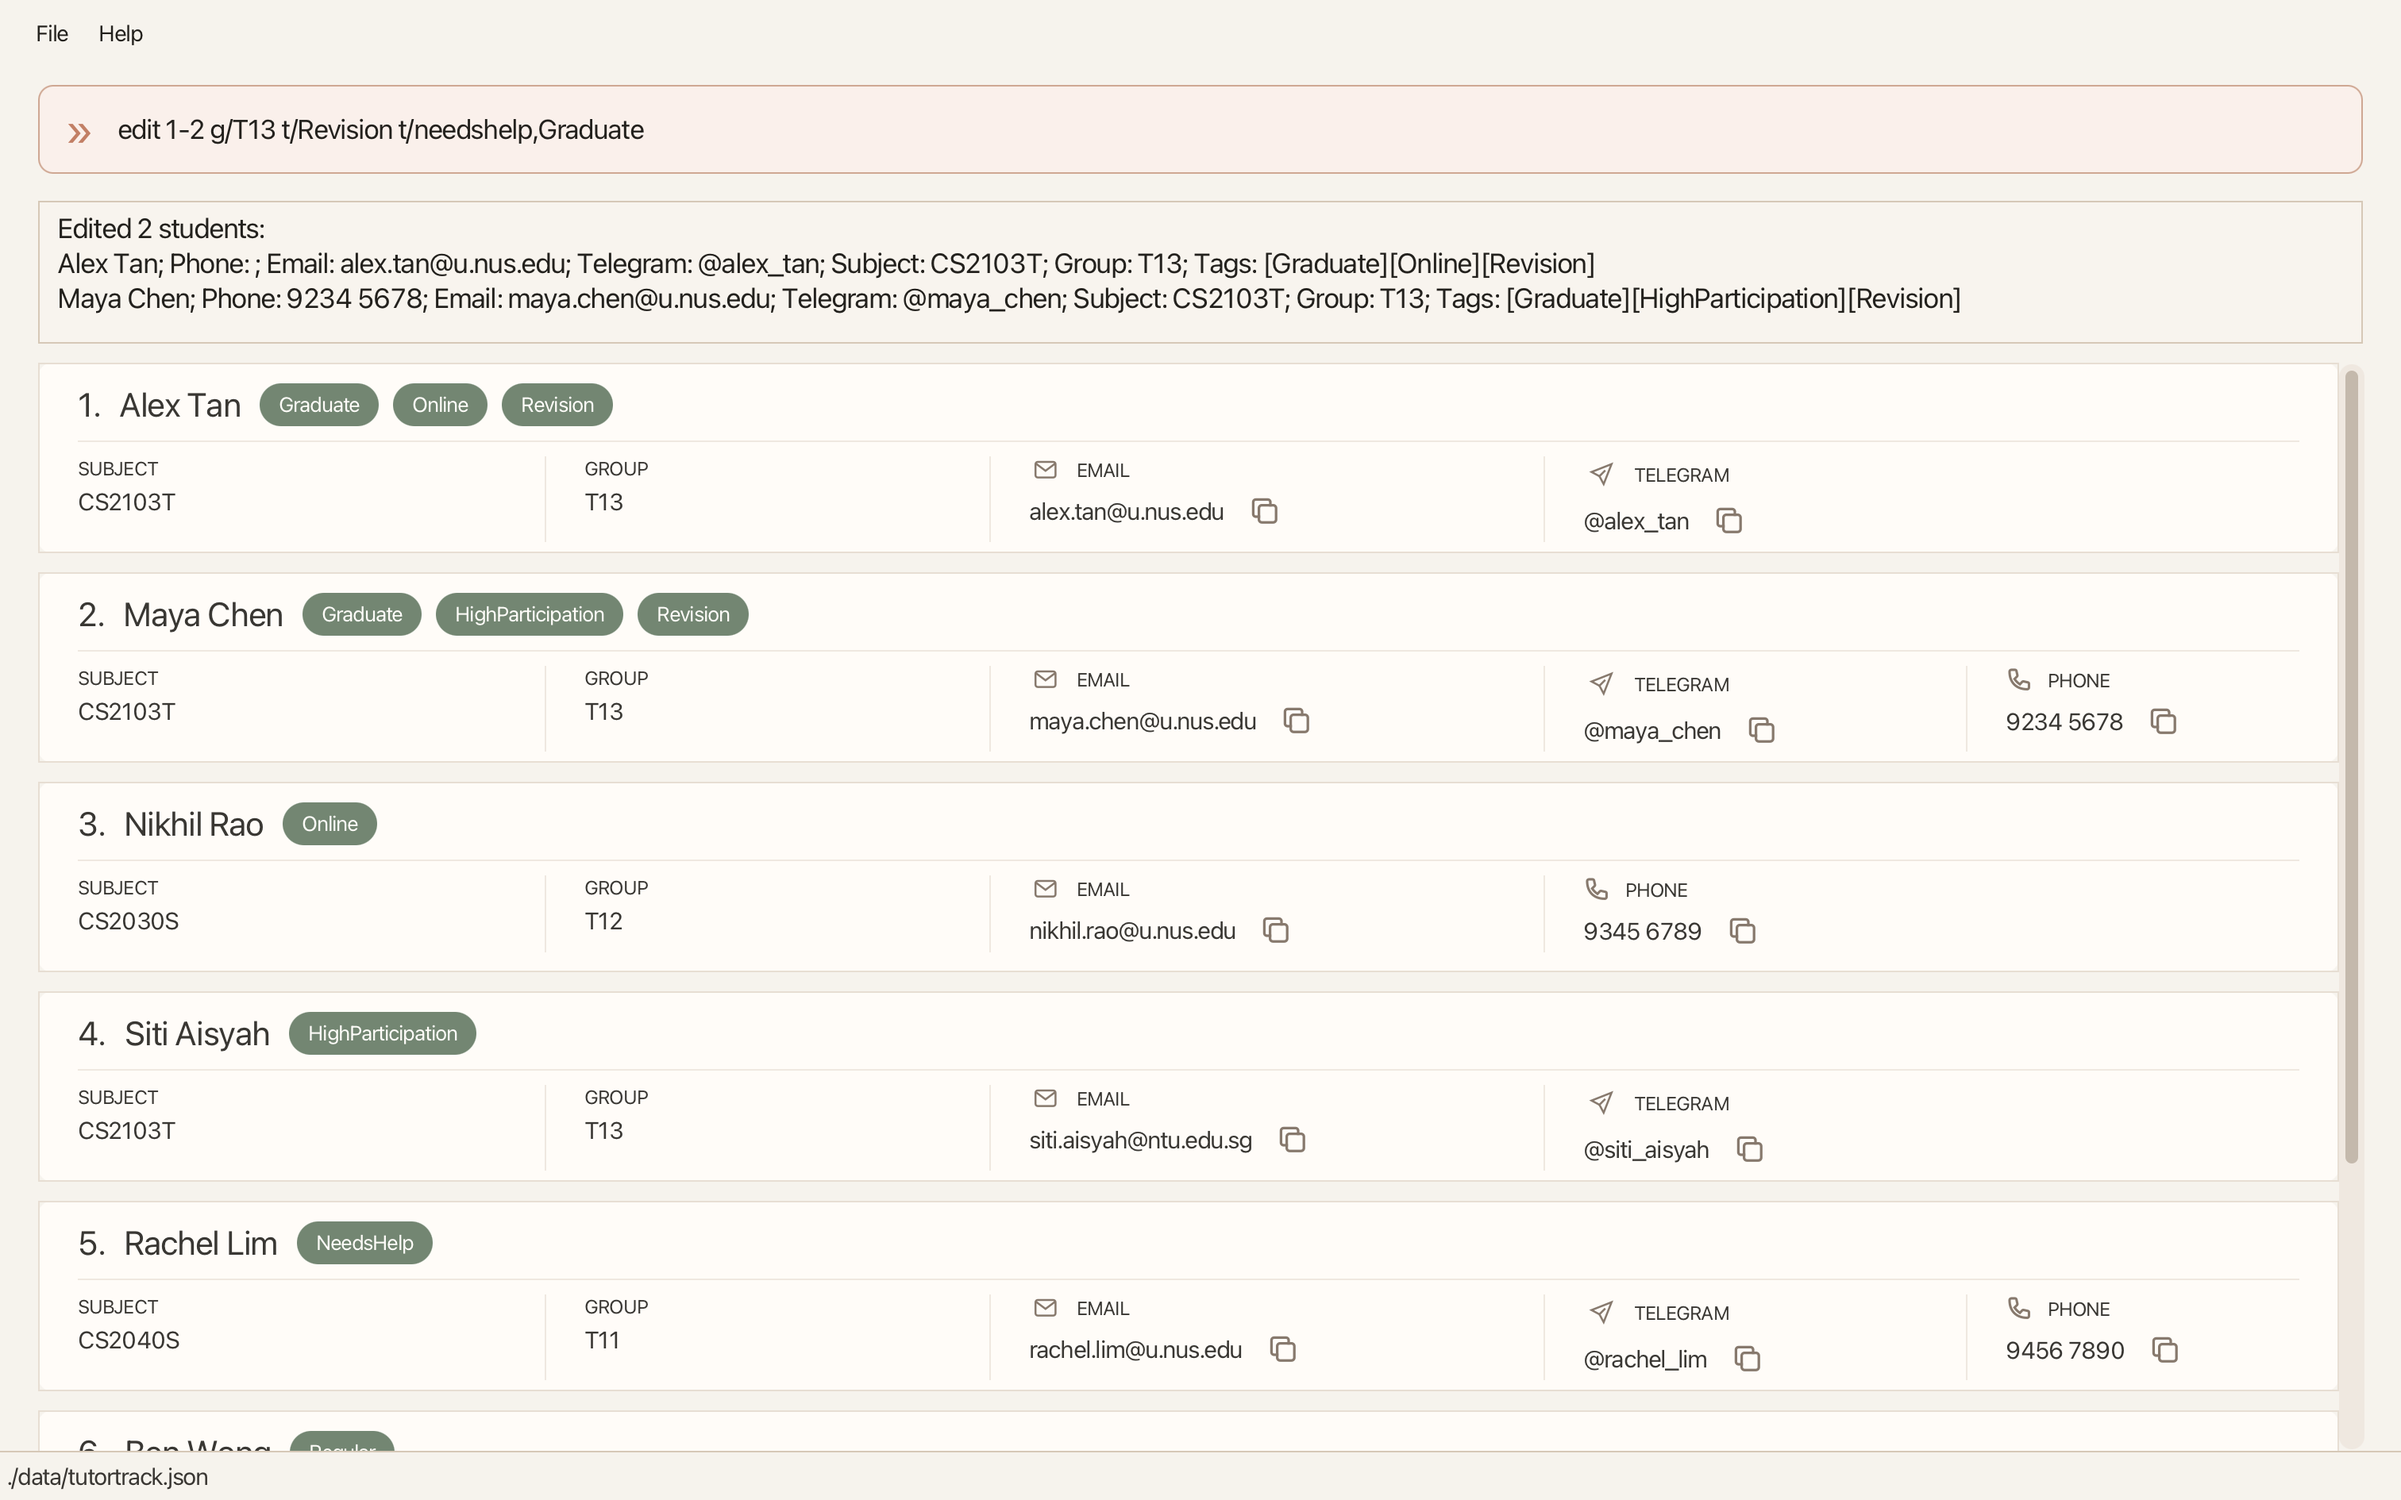
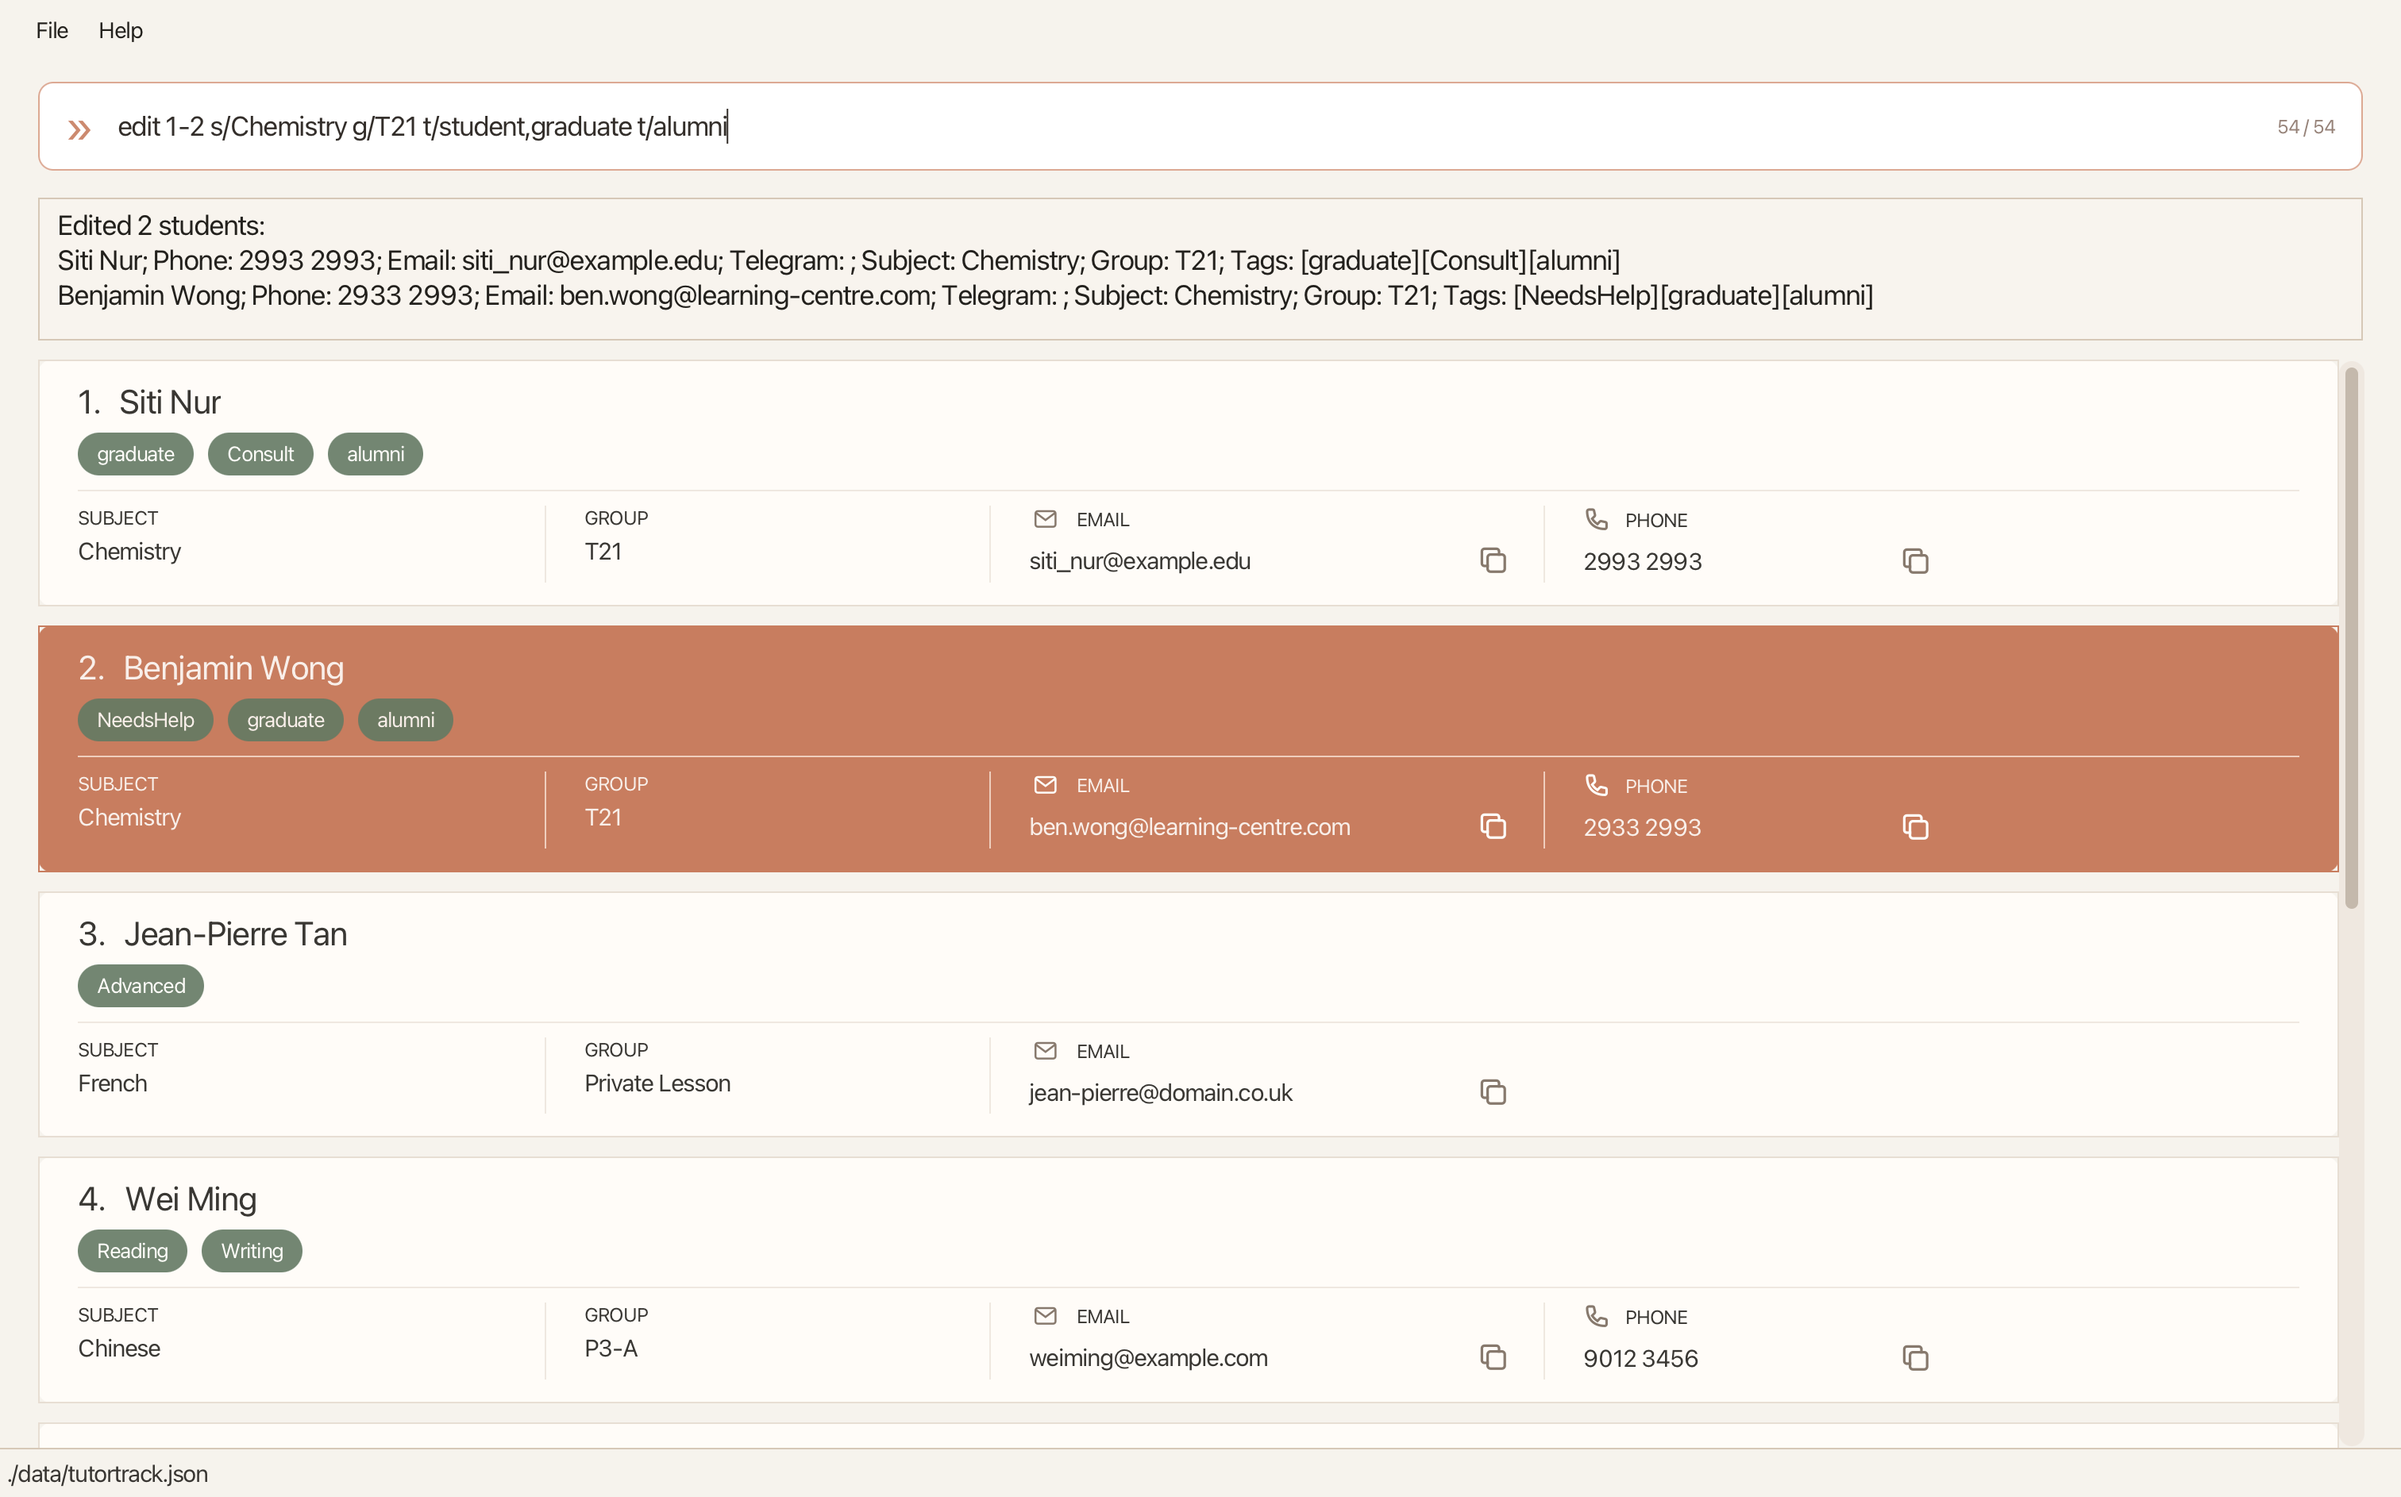
Fix tag wrapping after bulk student updates

diff --git a/src/main/java/seedu/address/ui/PersonListPanel.java b/src/main/java/seedu/address/ui/PersonListPanel.java
@@ -3,11 +3,13 @@ package seedu.address.ui;
 import java.util.logging.Logger;
 
 import javafx.application.Platform;
+import javafx.beans.binding.Bindings;
 import javafx.collections.ObservableList;
 import javafx.fxml.FXML;
 import javafx.geometry.Insets;
 import javafx.scene.control.ListCell;
 import javafx.scene.control.ListView;
+import javafx.scene.layout.FlowPane;
 import javafx.scene.layout.Region;
 import seedu.address.commons.core.LogsCenter;
 import seedu.address.model.person.Person;
@@ -53,10 +55,6 @@ public class PersonListPanel extends UiPart<Region> {
         private Region card;
         private boolean heightUpdateScheduled;
 
-        PersonListViewCell() {
-            widthProperty().addListener((observable, oldWidth, newWidth) -> scheduleHeightUpdate());
-        }
-
         @Override
         protected void updateItem(Person person, boolean empty) {
             super.updateItem(person, empty);
@@ -72,12 +70,14 @@ public class PersonListPanel extends UiPart<Region> {
                 int currentIndex = getIndex();
                 if (person != displayedPerson || currentIndex != displayedIndex) {
                     card = new PersonCard(person, currentIndex + 1).getRoot();
-                    card.prefWidthProperty().bind(personListView.widthProperty());
-                    card.maxWidthProperty().bind(personListView.widthProperty());
+                    card.prefWidthProperty().bind(Bindings.createDoubleBinding(this::getCardWidth, widthProperty()));
+                    card.maxWidthProperty().bind(card.prefWidthProperty());
+                    FlowPane tags = (FlowPane) card.lookup("#tags");
+                    tags.widthProperty().addListener((observable, oldWidth, newWidth) -> scheduleHeightUpdate());
                     setGraphic(card);
                     if (getWidth() > 0) {
                         card.applyCss();
-                        card.resize(getWidth(), card.prefHeight(getWidth()));
+                        card.resize(getCardWidth(), card.prefHeight(getCardWidth()));
                         card.layout();
                         setPrefHeight(computePrefHeight(getWidth()));
                     }
@@ -95,8 +95,16 @@ public class PersonListPanel extends UiPart<Region> {
             }
 
             Insets insets = getInsets();
-            double cardWidth = Math.max(0, width - insets.getLeft() - insets.getRight());
-            return insets.getTop() + card.prefHeight(cardWidth) + insets.getBottom();
+            return insets.getTop() + card.prefHeight(getCardWidth(width)) + insets.getBottom();
+        }
+
+        private double getCardWidth() {
+            return getCardWidth(getWidth());
+        }
+
+        private double getCardWidth(double cellWidth) {
+            Insets insets = getInsets();
+            return Math.max(0, cellWidth - insets.getLeft() - insets.getRight());
         }
 
         private void scheduleHeightUpdate() {
@@ -105,14 +113,23 @@ public class PersonListPanel extends UiPart<Region> {
             }
             heightUpdateScheduled = true;
             Platform.runLater(() -> {
-                heightUpdateScheduled = false;
                 if (card == null) {
+                    heightUpdateScheduled = false;
                     return;
                 }
 
-                setPrefHeight(computePrefHeight(getWidth()));
-                requestLayout();
-                personListView.requestLayout();
+                card.applyCss();
+                double cardWidth = getCardWidth();
+                card.resize(cardWidth, card.prefHeight(cardWidth));
+                card.layout();
+
+                double updatedHeight = computePrefHeight(getWidth());
+                if (Math.abs(getPrefHeight() - updatedHeight) > 0.5) {
+                    setPrefHeight(updatedHeight);
+                    requestLayout();
+                    personListView.requestLayout();
+                }
+                heightUpdateScheduled = false;
             });
         }
     }
